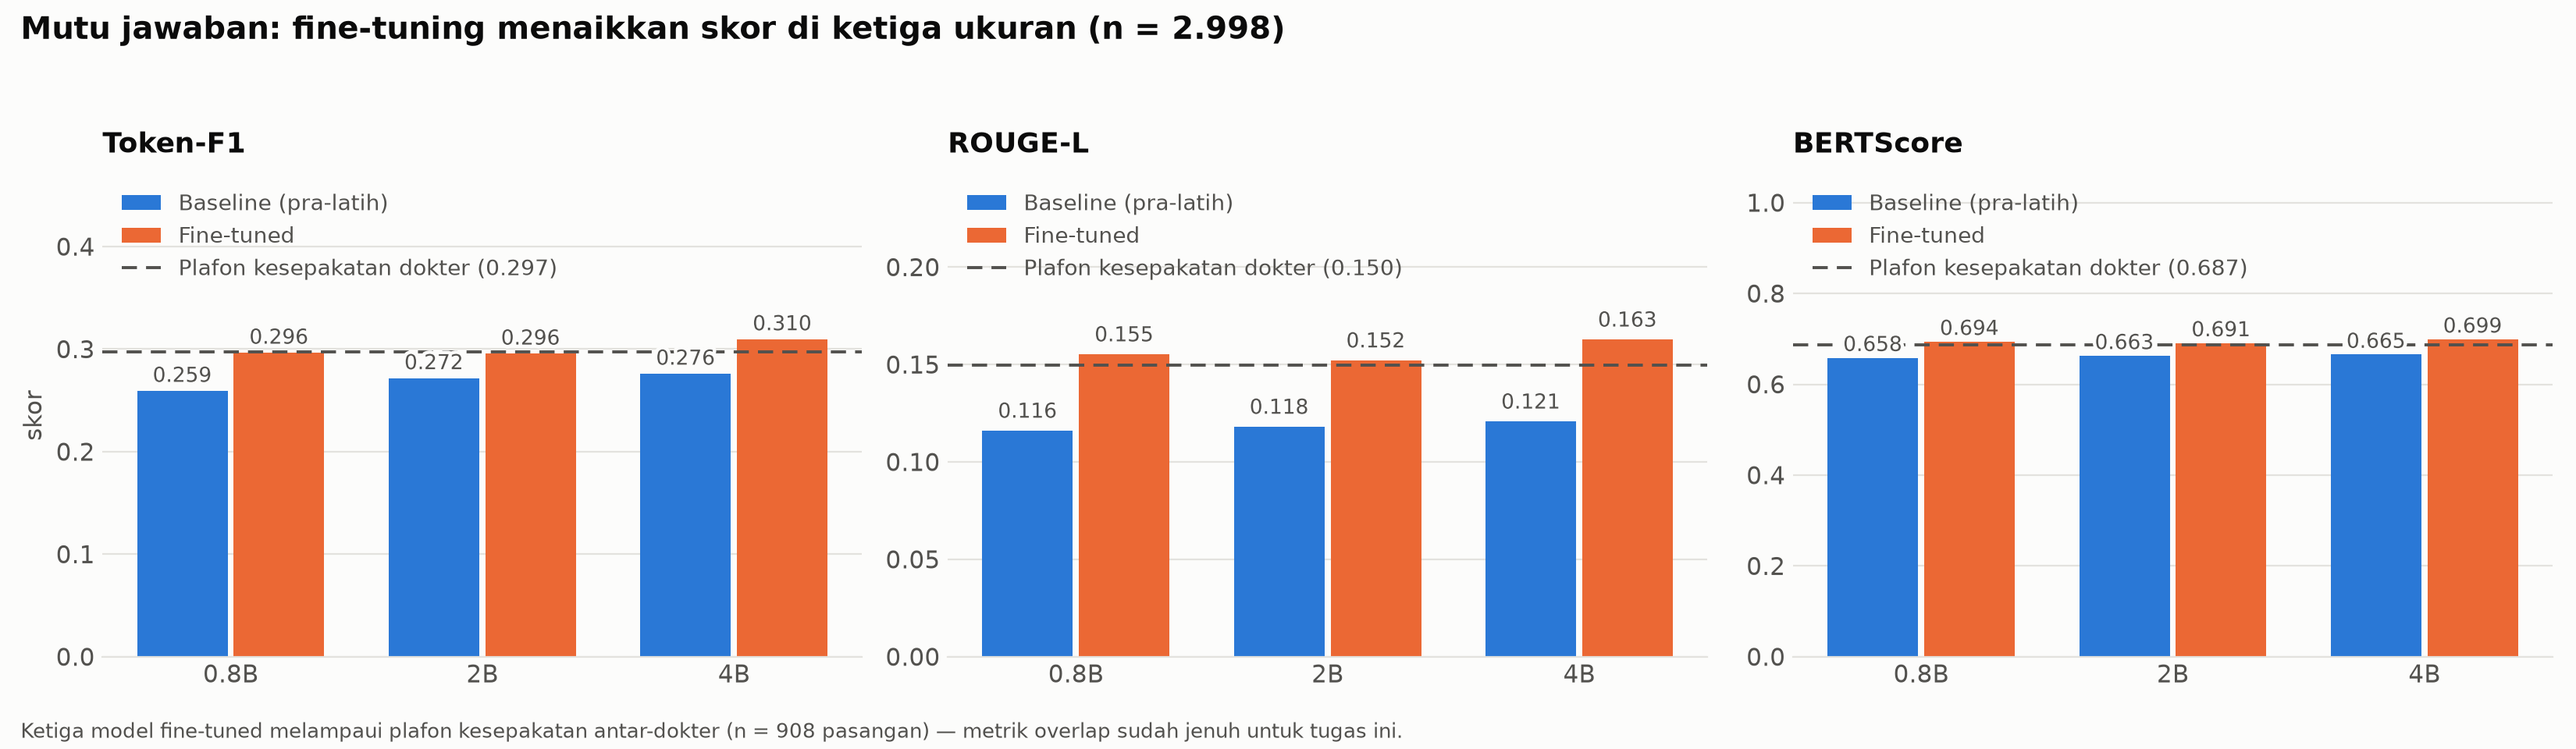
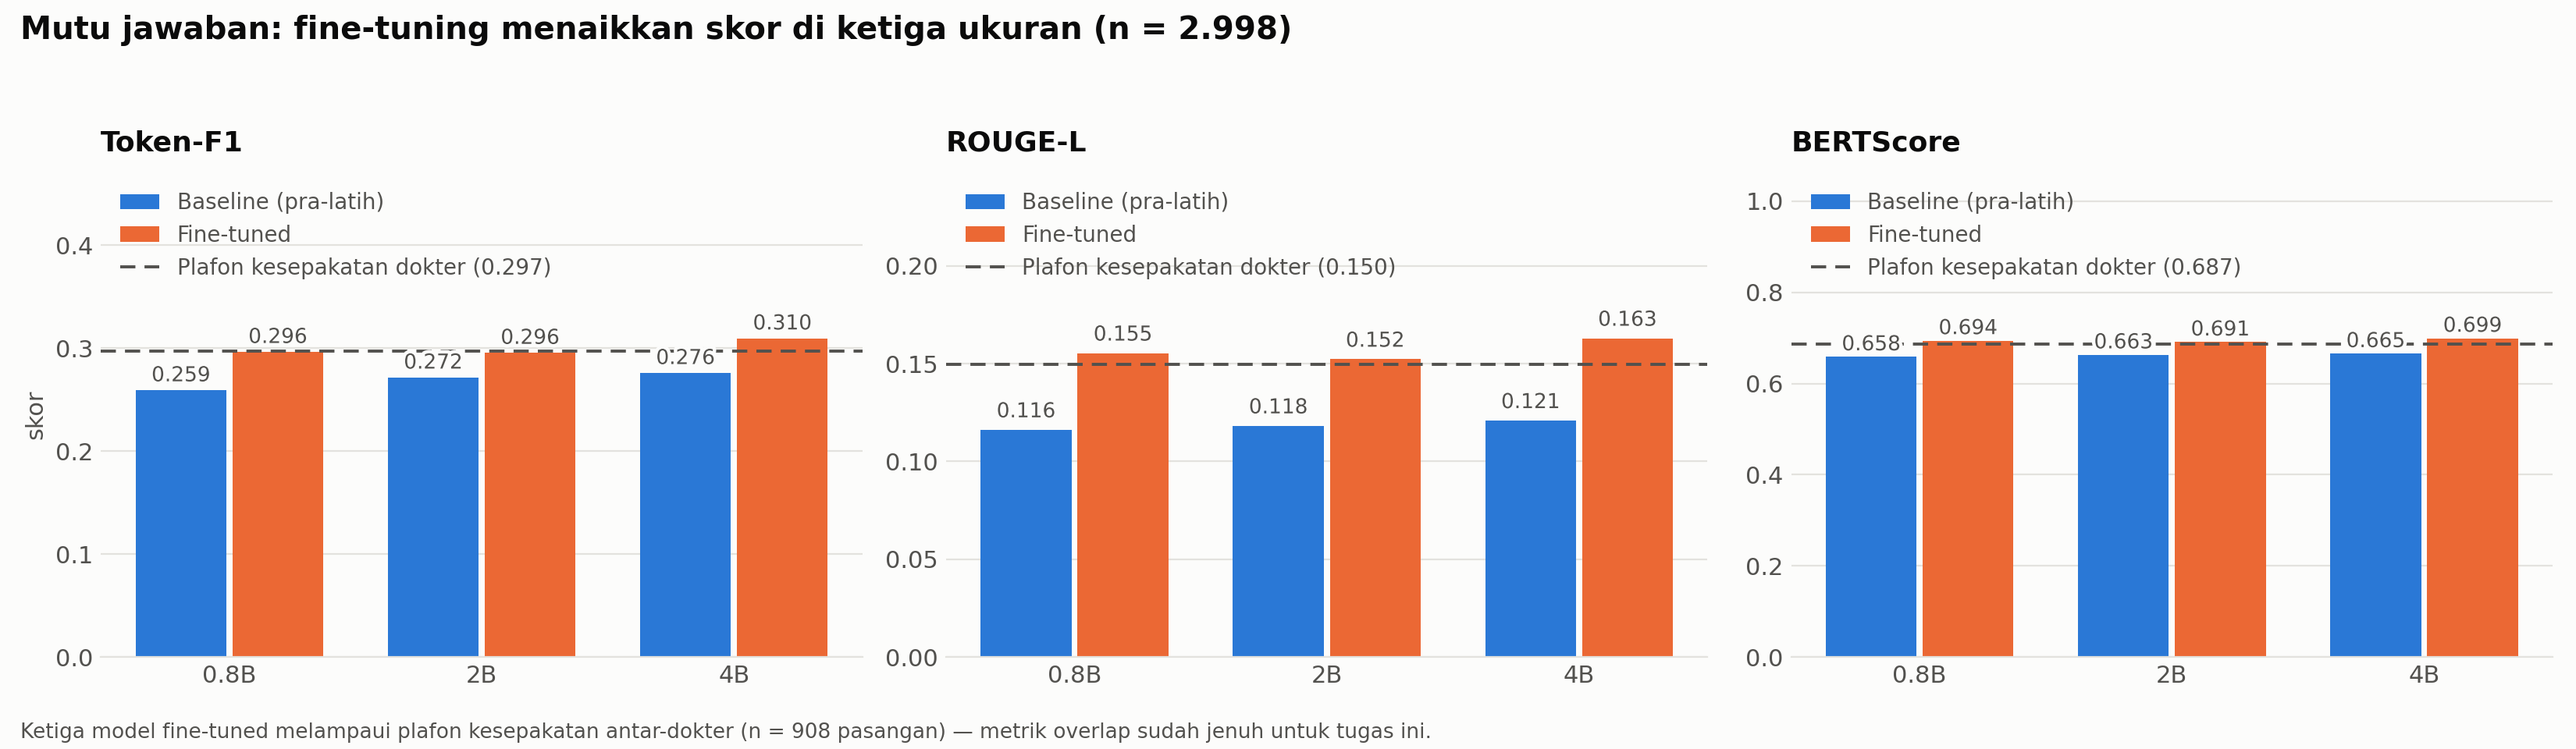
Grafik RQ3 laptop vs HP, dan demo chat streaming untuk Termux
fig_p6_rq3.png (dibuat plot_hasil_p6.py dari results_bench/ dan
results_bench_hp/): puncak RAM dengan garis anggaran kelas HP, dan latensi
per jawaban. Run HP yang masih memakai pemblokir 3-gram (0.8B, 2B) diberi
arsir; arsirnya hilang sendiri begitu run DRY+ disalin. Grafik masuk naskah
di bawah Tabel RQ3, tabelnya tetap.

demo_chat.py: peraga untuk dosen. Jawaban muncul kata demi kata lewat DRY+
dan lapisan red-flag, tanpa mengukur apa pun untuk naskah. Sudah masuk
bench_hp.zip di AriesDjaenuri/p6-hasil (27396 byte); STATUS.md diperbarui.

diff --git a/results/plot_hasil_p6.py b/results/plot_hasil_p6.py
@@ -6,10 +6,12 @@ menyimpang dari hasil eksperimen:
 
   - RQ1/RQ2  <- results/eval_truncation.json  (blok `per_ukuran.<size>.semua`)
   - Tier 2   <- results/llm_judge/tier2_<size>_ringkas.json
+  - RQ3      <- results_bench/bench_<size>.json (laptop) & results_bench_hp/ (HP)
 
 Keluaran:
   fig_p6_rq1_rq2.png   mutu jawaban: baseline vs fine-tuned, 3 ukuran, + plafon dokter
   fig_p6_tier2_aman.png  perubahan rate "Aman" — pembalikan tanda lintas ukuran
+  fig_p6_rq3.png         puncak RAM (+ anggaran kelas HP) dan latensi, laptop vs HP
 
 Jalankan:
   python results/plot_hasil_p6.py            # bahasa Indonesia -> results/figures/ (skripsi)
@@ -28,6 +30,7 @@ import pathlib
 import matplotlib
 
 matplotlib.use("Agg")
+import matplotlib.patches as mpatches
 import matplotlib.patheffects as pe
 import matplotlib.pyplot as plt
 
@@ -41,12 +44,28 @@ TEKS = {
         "plafon": "Plafon kesepakatan dokter ({:.3f})",
         "skor": "skor",
         "delta_aman": "Δ rate “Aman” (poin persentase)",
+        "laptop": "Laptop CPU (12 thread)",
+        "hp": "HP POCO X3 GT (4 thread)",
+        "ram": "Puncak RAM saat generate (GB)",
+        "lat": "Latensi per jawaban (detik)",
+        "judul_ram": "Memori",
+        "judul_lat": "Kecepatan",
+        "anggaran": "anggaran HP {} GB",
+        "token3": "HP, pemblokir 3-gram (belum diulang DRY+)",
     },
     "en": {
         "baseline": "Baseline (pre-trained)",
         "plafon": "Inter-physician agreement ({:.3f})",
         "skor": "Score",
         "delta_aman": "Change in Safe rate (percentage points)",
+        "laptop": "Laptop CPU (12 threads)",
+        "hp": "Android phone (4 threads)",
+        "ram": "Peak RAM during generation (GB)",
+        "lat": "Latency per answer (s)",
+        "judul_ram": "Memory",
+        "judul_lat": "Speed",
+        "anggaran": "{} GB phone budget",
+        "token3": "Phone, 3-gram block",
     },
 }
 
@@ -55,6 +74,11 @@ BASELINE = "#2a78d6"   # biru
 FINETUNED = "#eb6834"  # oranye
 POS = "#2a78d6"        # delta positif
 NEG = "#e34948"        # delta negatif
+# Perangkat memakai slot 3 & 7, BUKAN 1 & 2: biru/oranye di naskah sudah berarti
+# baseline/fine-tuned. Pasangan ini divalidasi (CVD ΔE 31, normal ΔE 36); aqua di
+# bawah 3:1 terhadap surface -> label nilai wajib ada di tiap batang.
+LAPTOP = "#1baf7a"     # aqua
+HP = "#4a3aa7"         # violet
 SURFACE = "#fcfcfb"
 INK = "#0b0b0b"
 INK2 = "#52514e"
@@ -230,13 +254,103 @@ def fig_tier2(t2: dict, lang: str) -> pathlib.Path:
     return p
 
 
+def muat_bench() -> dict:
+    """Ringkasan benchmark on-device. `token3` = run yang masih memakai pemblokir
+    3-gram (kunci `decoding` tidak ada) — latensinya ditandai arsir di grafik,
+    dan tanda itu hilang sendiri begitu run DRY+ disalin ke results_bench_hp/."""
+    out = {}
+    for perangkat, folder in (("laptop", "results_bench"), ("hp", "results_bench_hp")):
+        out[perangkat] = {}
+        for u in UKURAN:
+            d = json.loads((ROOT / folder / f"bench_{u}.json").read_text(encoding="utf-8"))
+            out[perangkat][u] = {
+                "ram": d["ram_GB"]["puncak_infer"],
+                "lat": d["waktu"]["latensi_s_mean"],
+                "tps": d["waktu"]["tok_per_s_mean"],
+                "token3": d["waktu"].get("decoding") != "dry_plus",
+                "anggaran": {int(float(k.split()[1])): v["diasumsikan_tersedia_GB"]
+                             for k, v in d["gerbang_ram"].items()},
+            }
+    return out
+
+
+def fig_rq3(b: dict, lang: str) -> pathlib.Path:
+    """Dua panel, bukan dua sumbu-y: GB dan detik tidak boleh berbagi skala."""
+    fig, (ax1, ax2) = plt.subplots(1, 2, figsize=(12.5, 5.0), facecolor=SURFACE)
+    x = range(len(UKURAN))
+    lebar = 0.36
+    geser = lebar / 2 + 0.012
+    halo = [pe.withStroke(linewidth=3.2, foreground=SURFACE)]
+
+    def batang(ax, kunci, fmt):
+        pegangan = []
+        for perangkat, warna, arah in (("laptop", LAPTOP, -1), ("hp", HP, 1)):
+            nilai = [b[perangkat][u][kunci] for u in UKURAN]
+            rs = ax.bar([i + arah * geser for i in x], nilai, lebar, color=warna, zorder=2)
+            pegangan.append(mpatches.Patch(facecolor=warna, label=TEKS[lang][perangkat]))
+            for u, r in zip(UKURAN, rs):
+                if kunci == "lat" and perangkat == "hp" and b["hp"][u]["token3"]:
+                    r.set_hatch("////")
+                    r.set_edgecolor(SURFACE)
+                    r.set_linewidth(0)
+                ax.text(r.get_x() + r.get_width() / 2, r.get_height(),
+                        " " + fmt(r.get_height()), ha="center", va="bottom",
+                        fontsize=9.5, color=INK2, path_effects=halo, zorder=4)
+        ax.set_xticks(list(x))
+        ax.set_xticklabels(LABEL_UKURAN, fontsize=12)
+        return pegangan
+
+    # --- panel memori + garis anggaran kelas HP ---
+    gaya(ax1)
+    peg = batang(ax1, "ram", lambda v: f"{v:.2f}")
+    anggaran = b["hp"]["0.8b"]["anggaran"]
+    for kelas, gb in sorted(anggaran.items()):
+        ax1.axhline(gb, color=INK2, linewidth=1.0, linestyle=(0, (4, 3)), zorder=1)
+        ax1.text(len(UKURAN) - 0.58, gb, TEKS[lang]["anggaran"].format(kelas),
+                 ha="left", va="center", fontsize=8.5, color=INK2, path_effects=halo)
+    ax1.set_ylim(0, max(b["laptop"][u]["ram"] for u in UKURAN) * 1.15)
+    ax1.set_xlim(-0.6, len(UKURAN) + 0.45)
+    ax1.set_ylabel(TEKS[lang]["ram"], fontsize=11, color=INK2)
+    ax1.set_title(TEKS[lang]["judul_ram"], fontsize=13, color=INK, pad=10,
+                  loc="left", fontweight="bold")
+    ax1.legend(handles=peg, frameon=False, fontsize=10, labelcolor=INK2, loc="upper left")
+
+    # --- panel latensi ---
+    gaya(ax2)
+    peg = batang(ax2, "lat", lambda v: f"{v:.1f} s")
+    if any(b["hp"][u]["token3"] for u in UKURAN):
+        peg.append(mpatches.Patch(facecolor=HP, hatch="////", edgecolor=SURFACE,
+                                  linewidth=0, label=TEKS[lang]["token3"]))
+    ax2.set_ylim(0, max(b["hp"][u]["lat"] for u in UKURAN) * 1.15)
+    ax2.set_ylabel(TEKS[lang]["lat"], fontsize=11, color=INK2)
+    ax2.set_title(TEKS[lang]["judul_lat"], fontsize=13, color=INK, pad=10,
+                  loc="left", fontweight="bold")
+    ax2.legend(handles=peg, frameon=False, fontsize=10, labelcolor=INK2, loc="upper left")
+
+    if lang == "id":
+        fig.suptitle("Deploy offline: memori muat, kecepatan yang menyaring (Q4_K_M, n = 12 pertanyaan)",
+                     fontsize=14, color=INK, x=0.008, ha="left", fontweight="bold")
+        fig.text(0.008, 0.015,
+                 "Garis putus-putus = memori yang diasumsikan tersedia untuk satu aplikasi "
+                 "(55% RAM total). Puncak RAM di HP 23–37% lebih rendah daripada laptop.",
+                 fontsize=9.5, color=INK2)
+        fig.tight_layout(rect=[0, 0.05, 1, 0.95])
+    else:
+        fig.tight_layout()
+
+    p = OUT[lang] / "fig_p6_rq3.png"
+    fig.savefig(p, dpi=200, facecolor=SURFACE)
+    plt.close(fig)
+    return p
+
+
 def main():
     ap = argparse.ArgumentParser()
     ap.add_argument("--lang", choices=["id", "en"], default="id")
     lang = ap.parse_args().lang
     OUT[lang].mkdir(parents=True, exist_ok=True)
-    metrik, t2 = muat_metrik(), muat_tier2()
-    for p in (fig_rq1_rq2(metrik, lang), fig_tier2(t2, lang)):
+    metrik, t2, bench = muat_metrik(), muat_tier2(), muat_bench()
+    for p in (fig_rq1_rq2(metrik, lang), fig_tier2(t2, lang), fig_rq3(bench, lang)):
         print("tersimpan:", p.relative_to(ROOT), f"({p.stat().st_size / 1e3:.0f} KB)")
 
 

diff --git a/demo_chat.py b/demo_chat.py
@@ -1,0 +1,129 @@
+"""
+demo_chat.py — peraga RQ3: chatbot medis offline di HP, jawaban muncul kata demi kata.
+
+Untuk demo langsung (ke dosen, di Termux). Memakai jalur yang SAMA dengan benchmark:
+prompt `bangun_prompt`, pengaman pengulangan DRY+, lapisan red-flag. Bedanya, skrip ini
+menampilkan jawaban secara streaming dan tidak mengukur apa pun untuk naskah — angka
+RQ3 tetap dari `benchmark_ondevice.py`.
+
+    python demo_chat.py --ukuran 0.8b                 # ketik pertanyaan sendiri
+    python demo_chat.py --ukuran 0.8b --contoh 3      # 3 pertanyaan dari pertanyaan_bench.json
+    python demo_chat.py --gguf path/model.gguf        # berkas GGUF di lokasi lain
+
+Ketik `keluar` (atau Ctrl+C) untuk berhenti.
+"""
+from __future__ import annotations
+
+import argparse
+import json
+import os
+import time
+
+# Impor ini sekaligus meluruskan sys.platform "android" -> "linux" sebelum llama_cpp.
+from benchmark_ondevice import _ram_available_bytes, _rss_bytes, bangun_prompt
+
+TEBAL, REDUP, MERAH, HIJAU, BIRU, POLOS = (
+    "\033[1m", "\033[2m", "\033[31m", "\033[32m", "\033[36m", "\033[0m")
+
+NAMA_GGUF = {"0.8b": "Qwen3.5-0.8B", "2b": "Qwen3.5-2B", "4b": "Qwen3.5-4B"}
+
+
+def cari_gguf(ukuran: str) -> str:
+    nama = f"{NAMA_GGUF[ukuran]}.Q4_K_M.gguf"
+    for folder in ("~/models", "~/storage/downloads/models", "outputs/gguf"):
+        p = os.path.expanduser(os.path.join(folder, nama))
+        if os.path.exists(p):
+            return p
+    raise SystemExit(f"{nama} tidak ditemukan di ~/models, ~/storage/downloads/models, "
+                     "atau outputs/gguf. Pakai --gguf untuk menunjuk berkasnya.")
+
+
+def jawab(llm, q: str) -> dict:
+    from pengaman_decoding import dry_plus
+    from redflag import detect
+
+    rf = detect(q)
+    if rf.terpicu:
+        print(f"\n{MERAH}{TEBAL}⚠  TANDA BAHAYA terdeteksi: {rf.ringkas()}{POLOS}")
+        print(f"{MERAH}Segera ke IGD / fasilitas kesehatan terdekat. "
+              f"Jawaban di bawah hanya informasi awal.{POLOS}")
+
+    p = bangun_prompt(q)
+    kw, rapikan = dry_plus(llm, p)
+    print(f"\n{HIJAU}{TEBAL}Asisten:{POLOS} ", end="", flush=True)
+    t0 = time.time()
+    t_pertama, potongan, n_tok = None, [], 0
+    for o in llm.create_completion(p, max_tokens=None, temperature=0.0, top_k=1,
+                                   stream=True, **kw):
+        s = o["choices"][0]["text"]
+        if s and t_pertama is None:
+            t_pertama = time.time() - t0
+        potongan.append(s)
+        n_tok += 1
+        print(s, end="", flush=True)
+    dt = time.time() - t0
+    teks = "".join(potongan)
+    akhir = rapikan(teks)
+    if akhir != teks:
+        print(f"\n{REDUP}[pengulangan terdeteksi — jawaban dipotong di titik itu]{POLOS}")
+
+    print(f"\n\n{REDUP}— {n_tok} token · {dt:.1f} dtk · {n_tok / dt:.1f} token/dtk · "
+          f"token pertama {t_pertama or 0:.1f} dtk · RAM proses {_rss_bytes() / 1e9:.2f} GB"
+          f"{POLOS}")
+    return {"pertanyaan": q, "jawaban": akhir, "redflag": rf.ringkas(),
+            "token": n_tok, "detik": round(dt, 1)}
+
+
+def main() -> None:
+    ap = argparse.ArgumentParser()
+    ap.add_argument("--ukuran", choices=sorted(NAMA_GGUF), default="0.8b")
+    ap.add_argument("--gguf", help="path GGUF (bawaan: dicari dari --ukuran)")
+    ap.add_argument("--contoh", type=int, default=0, metavar="N",
+                    help="jawab N pertanyaan dari --pertanyaan lalu lanjut mode ketik")
+    ap.add_argument("--pertanyaan", default="pertanyaan_bench.json")
+    ap.add_argument("--threads", type=int, default=4)
+    ap.add_argument("--simpan", metavar="JSON", help="simpan tanya-jawab demo ke berkas ini")
+    args = ap.parse_args()
+
+    from llama_cpp import Llama
+
+    gguf = args.gguf or cari_gguf(args.ukuran)
+    print(f"{BIRU}Memuat {os.path.basename(gguf)} "
+          f"({os.path.getsize(gguf) / 1e9:.2f} GB) · {args.threads} thread · "
+          f"RAM bebas {_ram_available_bytes() / 1e9:.2f} GB ...{POLOS}")
+    t = time.time()
+    llm = Llama(model_path=gguf, n_ctx=1024, n_gpu_layers=0,
+                n_threads=args.threads, verbose=False)
+    print(f"{BIRU}Siap dalam {time.time() - t:.1f} dtk · RAM proses "
+          f"{_rss_bytes() / 1e9:.2f} GB · tanpa internet{POLOS}")
+    print(f"{REDUP}Informasi & triase awal, BUKAN diagnosis.{POLOS}")
+
+    riwayat = []
+    antre = []
+    if args.contoh:
+        with open(args.pertanyaan, encoding="utf-8") as f:
+            antre = json.load(f)[:args.contoh]
+
+    try:
+        while True:
+            if antre:
+                q = antre.pop(0)
+                print(f"\n{TEBAL}Pertanyaan:{POLOS} {q}")
+            else:
+                q = input(f"\n{TEBAL}Pertanyaan (ketik 'keluar'):{POLOS} ").strip()
+                if not q:
+                    continue
+                if q.lower() in {"keluar", "exit", "quit"}:
+                    break
+            riwayat.append(jawab(llm, q))
+    except (KeyboardInterrupt, EOFError):
+        print()
+
+    if args.simpan and riwayat:
+        with open(args.simpan, "w", encoding="utf-8") as f:
+            json.dump(riwayat, f, ensure_ascii=False, indent=1)
+        print(f"{REDUP}tersimpan: {args.simpan} ({len(riwayat)} tanya-jawab){POLOS}")
+
+
+if __name__ == "__main__":
+    main()

diff --git a/results_bench_hp/STATUS.md b/results_bench_hp/STATUS.md
@@ -36,7 +36,7 @@ Sisa: ulang 0.8B dan 2B dengan `--decoding dry_plus` (4B sudah). Tempel apa adan
 ```bash
 cd ~/bench
 curl -L -o bench_hp.zip https://huggingface.co/AriesDjaenuri/p6-hasil/resolve/main/tools/bench_hp.zip
-ls -l bench_hp.zip          # 25045 byte = versi dengan simpan-parsial
+ls -l bench_hp.zip          # 27396 byte = versi dengan demo_chat.py
 unzip -o bench_hp.zip
 
 python - <<'CEK'
@@ -81,12 +81,25 @@ kalau Termux di-reset lagi.
 
 ---
 
+## Demo langsung (peraga, bukan pengukuran)
+
+`demo_chat.py` (ada di zip sejak 2026-09-24) menampilkan jawaban kata demi kata dengan
+DRY+ dan lapisan red-flag. Angkanya tidak dipakai naskah.
+
+```bash
+cd ~/bench && termux-wake-lock
+python demo_chat.py --ukuran 0.8b --contoh 3 --simpan demo_jawaban.json
+```
+
+Contoh ke-2 dan ke-3 memicu banner red-flag. Sesudah contoh habis, ketik pertanyaan sendiri;
+`keluar` untuk berhenti. Nyalakan mode pesawat supaya terlihat offline.
+
 ## Sebelum run berikutnya
 
 ```bash
 cd ~/bench
 curl -L -o bench_hp.zip https://huggingface.co/AriesDjaenuri/p6-hasil/resolve/main/tools/bench_hp.zip
-ls -l bench_hp.zip          # 25045 byte = versi dengan simpan-parsial
+ls -l bench_hp.zip          # 27396 byte = versi dengan demo_chat.py
 unzip -o bench_hp.zip
 python - <<'PY'
 import sys
